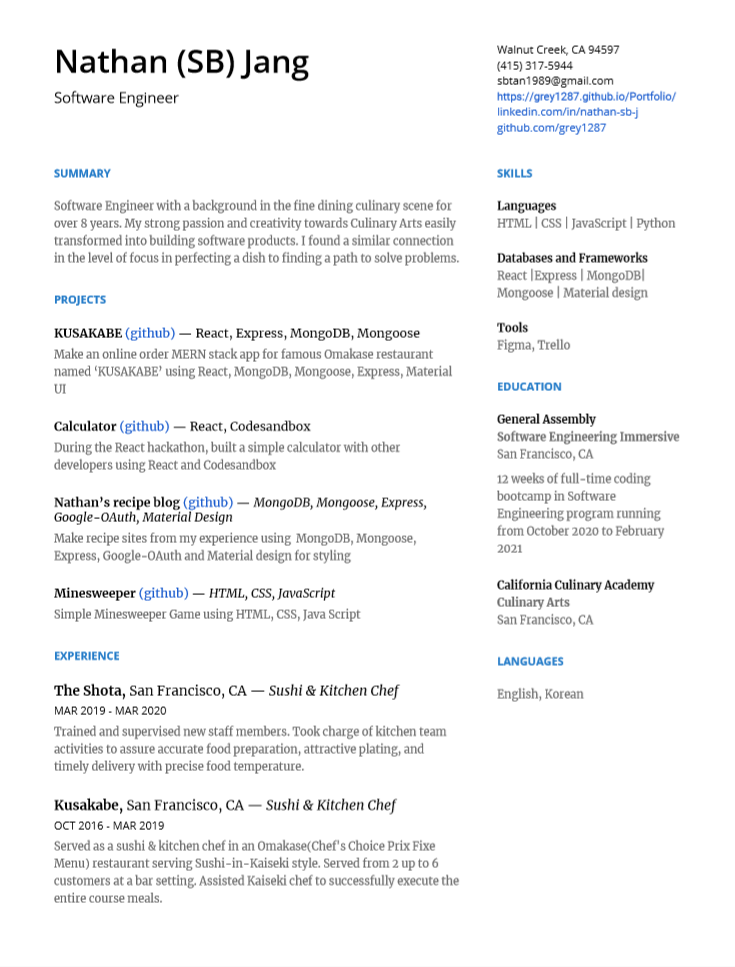
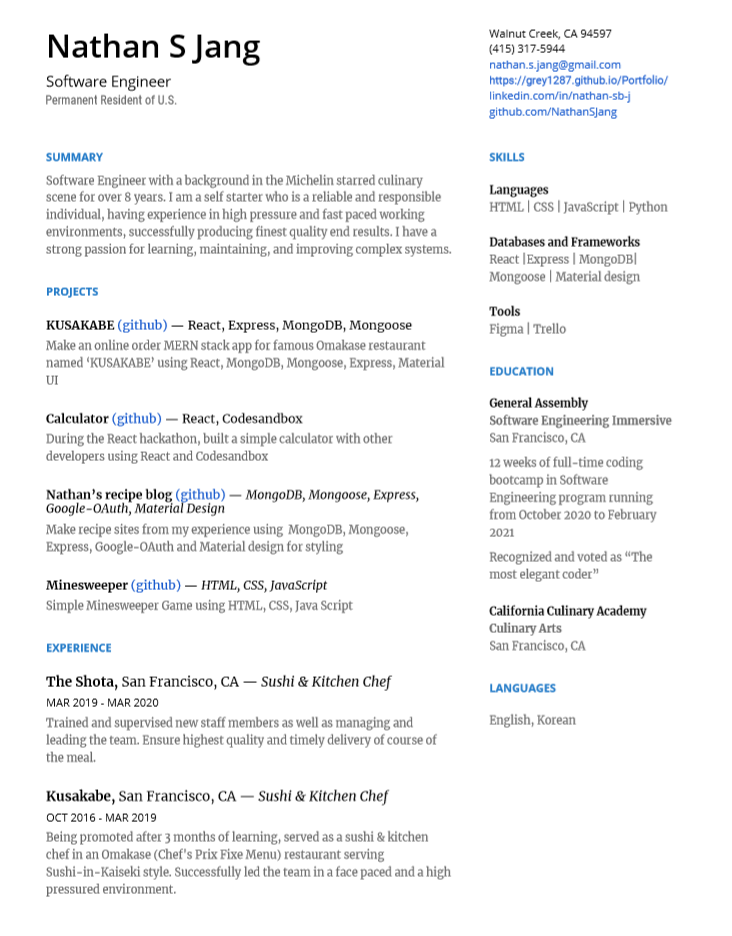
change email

Changed region(s): [[0.0601, 0.1549, 0.6311, 0.9605], [0.6612, 0.031, 0.9317, 0.7746], [0.0601, 0.031, 0.4208, 0.1239]]

diff --git a/src/components/GetInTouch/GetInTouch.jsx b/src/components/GetInTouch/GetInTouch.jsx
@@ -21,7 +21,7 @@ export default function GetInTouch() {
       <Button className={classes.touchBtn} varinat='outlined' href='sbtan1989@gmail.com'>
       <Mailto 
               className={classes.mailtotext} 
-              email='sbtan1989@gmail.com' 
+              email='nathan.s.jang@gmail.com' 
               obfuscate={true} 
               sytle={{color: 'white'}} 
             />

diff --git a/src/components/Contact/Contact.jsx b/src/components/Contact/Contact.jsx
@@ -24,7 +24,7 @@ export default function Resume() {
           <Typography className={classes.contactText} variant='h6'>
             <Mailto 
               className={classes.mailtotext} 
-              email='sbtan1989@gmail.com' 
+              email='nathan.s.jang@gmail.com' 
               obfuscate={true} 
               sytle={{color: 'white'}} 
             />

diff --git a/src/components/FloatingMail/FloatingMail.jsx b/src/components/FloatingMail/FloatingMail.jsx
@@ -14,7 +14,7 @@ export default function FloatingBtn() {
     <div className={classes.FloatingBtnConatiner}r>
       <Mailto 
         className={classes.mail} 
-        email='sbtan1989@gmail.com' 
+        email='nathan.s.jang@gmail.com' 
         obfuscate={true} 
         sytle={{color: 'white'}} 
       />
